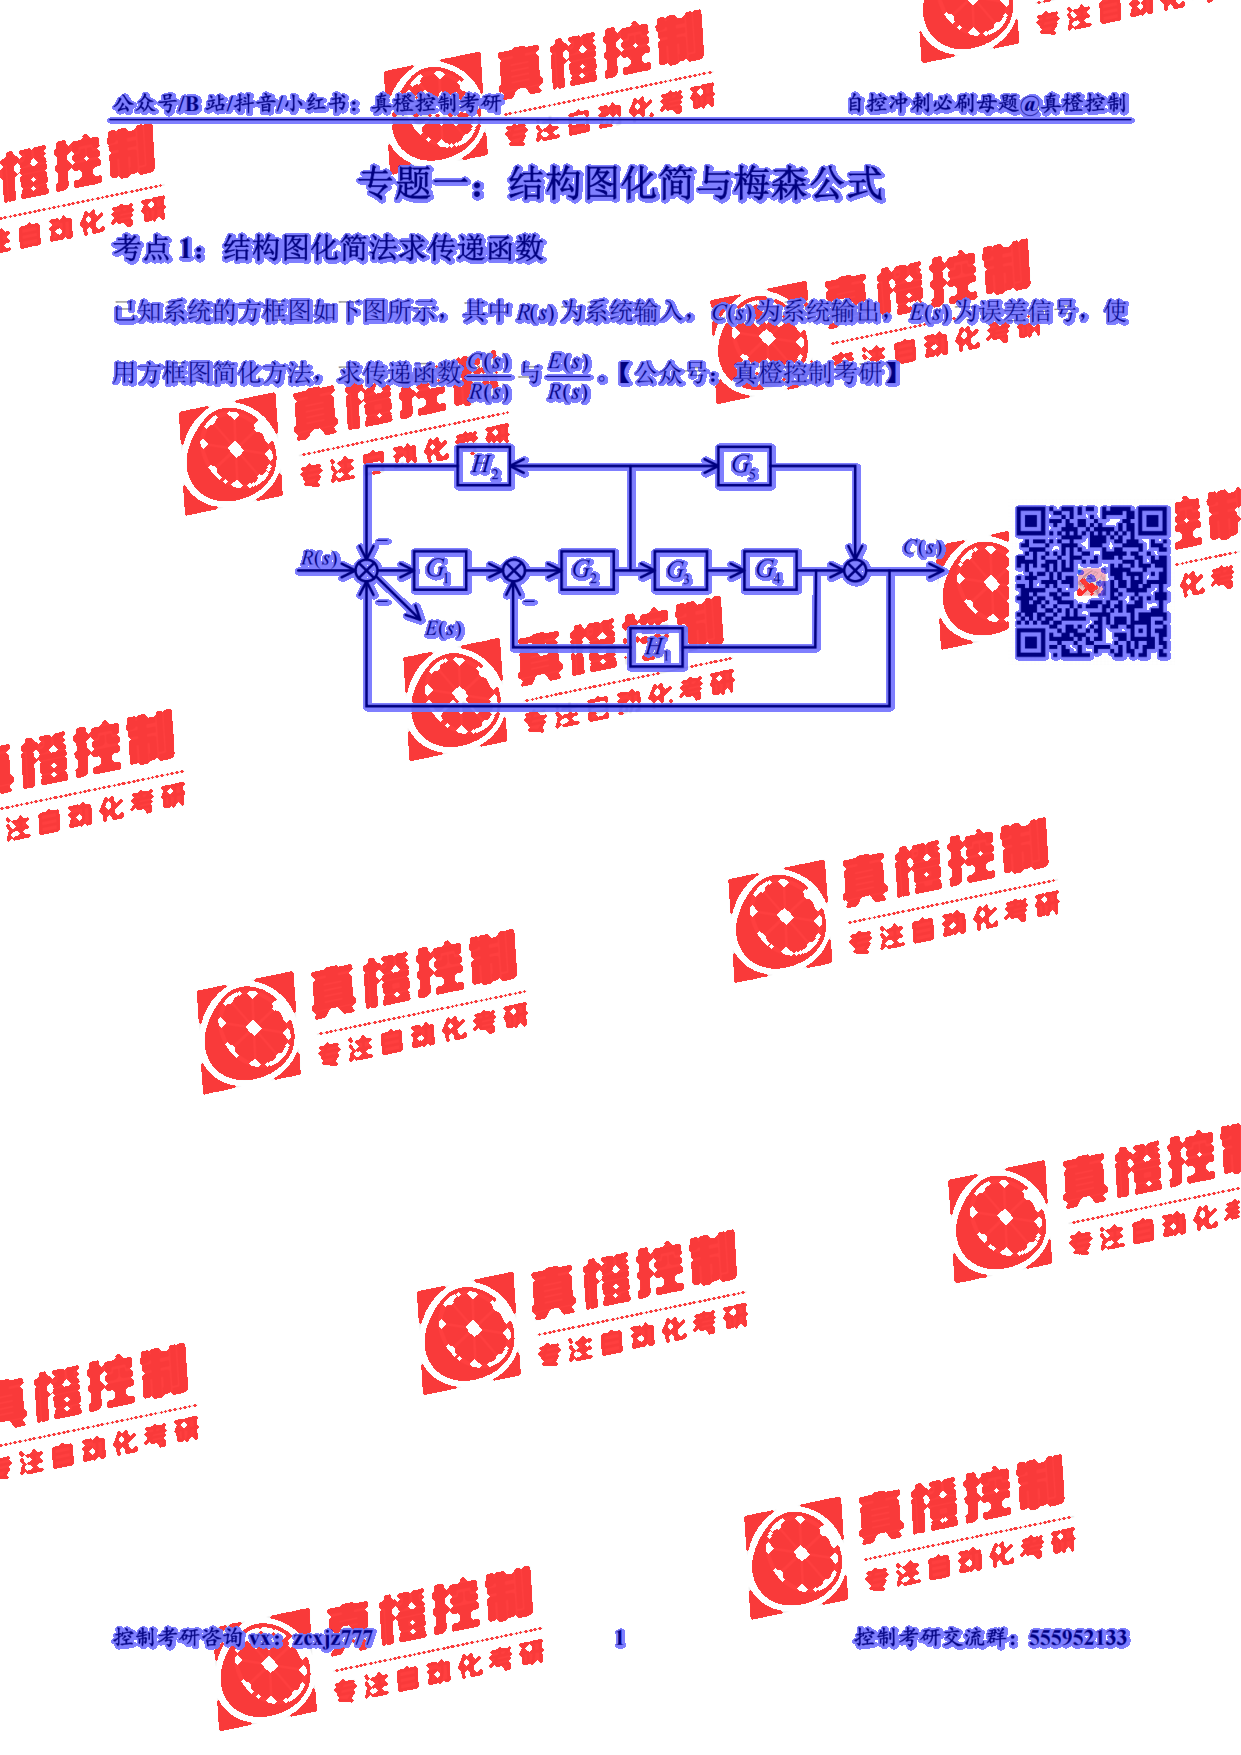
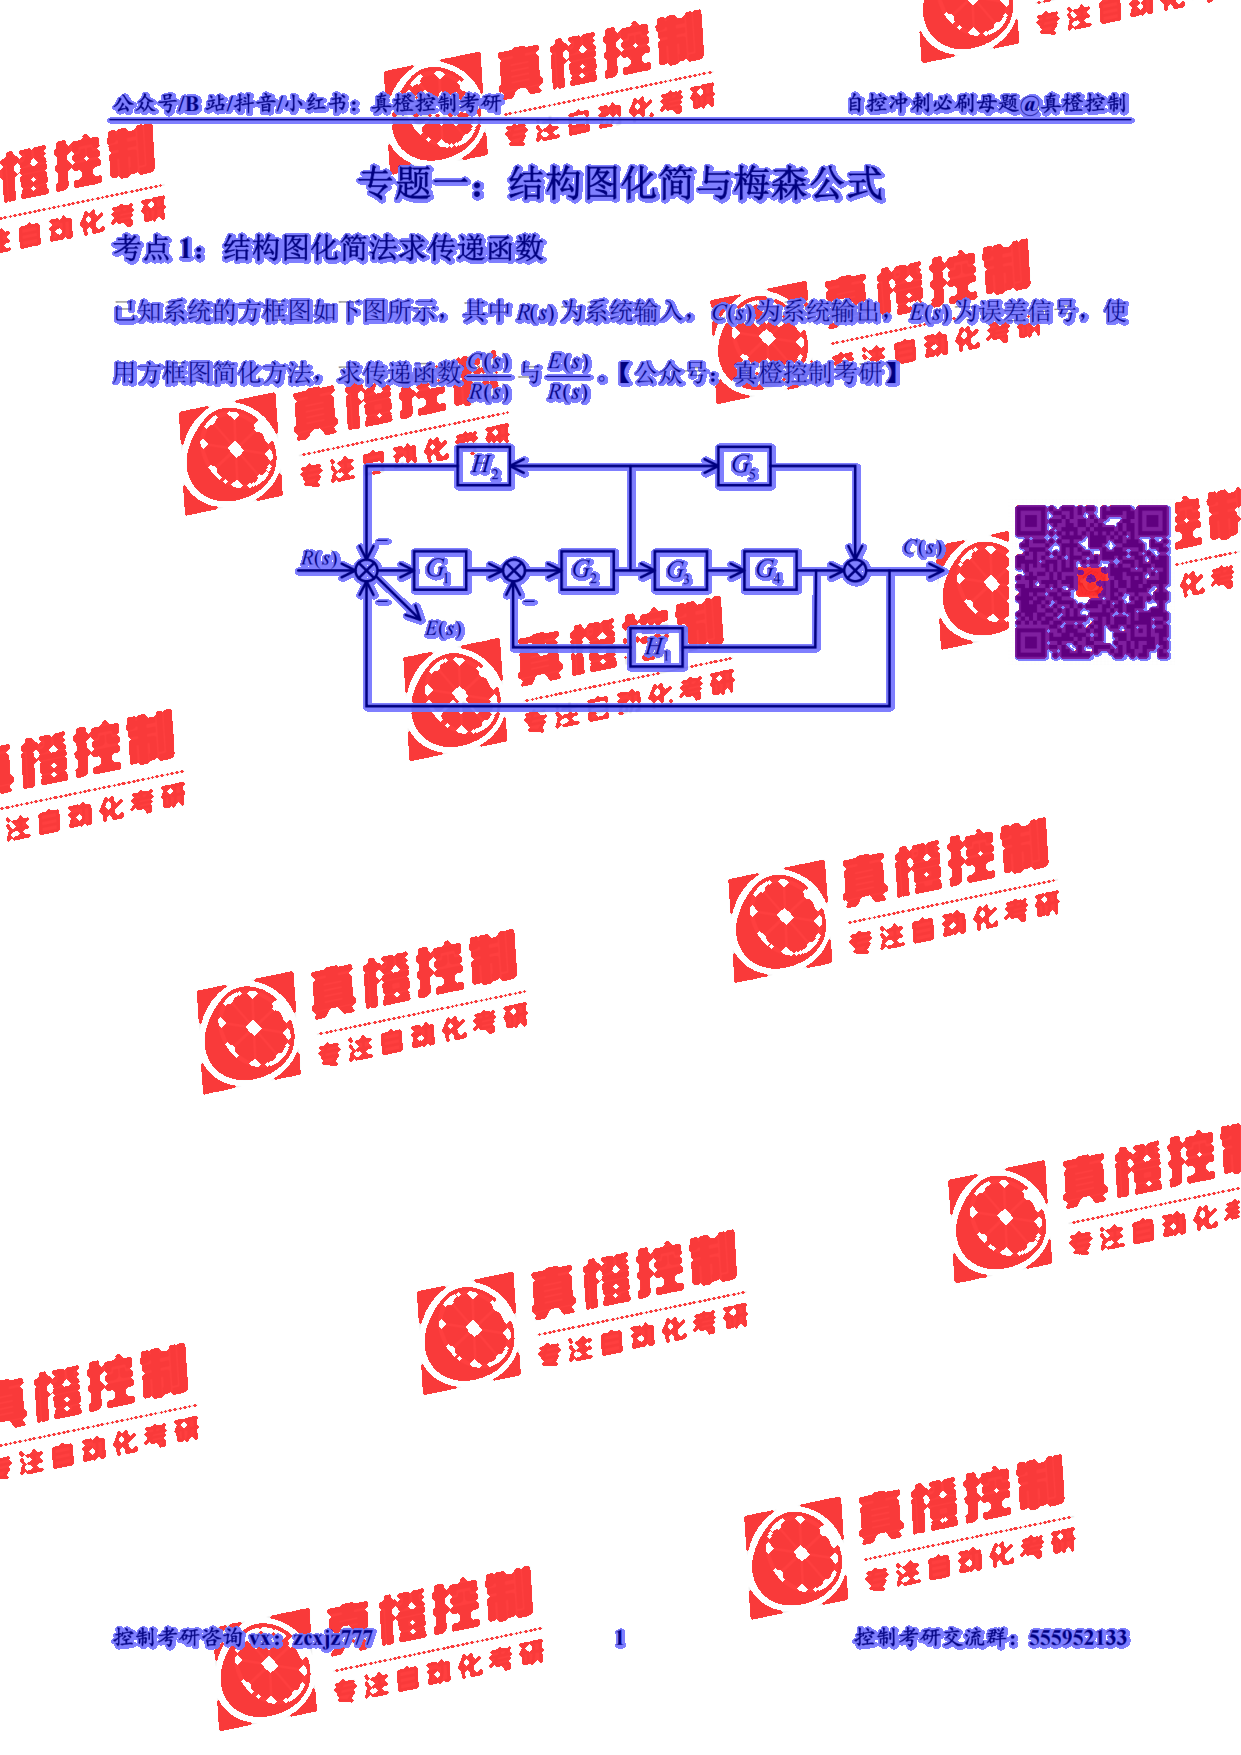
fix: update QR code removal logic to include website QR codes as watermarks

Changed region(s): [[0.7961, 0.2769, 0.9492, 0.4]]

diff --git a/tests/test_progress_enhancement.py b/tests/test_progress_enhancement.py
@@ -1,11 +1,9 @@
 #!/usr/bin/env python3
 """Test suite for enhanced progress bar tracking in watermark removal pipeline."""
 
+import importlib.util
 import time
 from unittest.mock import MagicMock, Mock, patch
-
-import numpy as np
-import pytest
 
 try:
     import cv2
@@ -13,15 +11,14 @@ try:
 except ImportError:
     CV2_AVAILABLE = False
 
-try:
-    from ultralytics import YOLO
-    YOLO_AVAILABLE = True
-except ImportError:
-    YOLO_AVAILABLE = False
+import numpy as np
+import pytest
 
 # Import the modules to test
 from pdf_watermark_removal.watermark_detector import WatermarkDetector
 from pdf_watermark_removal.watermark_remover import WatermarkRemover
+
+YOLO_AVAILABLE = importlib.util.find_spec("ultralytics") is not None
 
 
 class ProgressTracker:
@@ -119,7 +116,7 @@ class TestProgressTracking:
         mock_progress.update = Mock(side_effect=tracker.update_callback)
 
         # Perform detection with progress tracking
-        mask = detector.detect_watermark_mask(
+        detector.detect_watermark_mask(
             sample_image,
             page_num=1,
             progress=mock_progress,
@@ -138,8 +135,6 @@ class TestProgressTracking:
 
     def test_qr_detection_progress(self, sample_image_with_qr):
         """Test progress tracking when QR code detection is enabled."""
-        tracker = ProgressTracker()
-
         detector = WatermarkDetector(
             detection_method="traditional",
             detect_qr_codes=True,
@@ -147,11 +142,6 @@ class TestProgressTracking:
             remove_all_qr_codes=False,
             verbose=False
         )
-
-        # Mock progress updates
-        mock_progress = Mock()
-        mock_task_id = Mock()
-        mock_progress.update = Mock(side_effect=tracker.update_callback)
 
         # Perform detection with QR code scanning
         mask = detector.detect_qr_codes_mask(
@@ -178,7 +168,7 @@ class TestProgressTracking:
         mock_task_id = Mock()
         mock_progress.update = Mock(side_effect=tracker.update_callback)
 
-        mask = detector.detect_watermark_mask(
+        detector.detect_watermark_mask(
             sample_image,
             page_num=1,
             progress=mock_progress,
@@ -211,7 +201,7 @@ class TestProgressTracking:
         with patch.object(remover, '_process_single_pass') as mock_pass:
             mock_pass.return_value = (sample_image, True)
 
-            result = remover.remove_watermark_multi_pass(
+            remover.remove_watermark_multi_pass(
                 sample_image,
                 passes=3,
                 page_num=1,
@@ -239,7 +229,7 @@ class TestProgressTracking:
         mock_task_id = Mock()
         mock_progress.update = Mock(side_effect=tracker.update_callback)
 
-        mask = detector.detect_watermark_mask(
+        detector.detect_watermark_mask(
             clean_image,
             page_num=1,
             progress=mock_progress,
@@ -266,10 +256,10 @@ class TestProgressTracking:
 
         # Simulate an error during detection
         with patch.object(detector, '_traditional_detect_mask') as mock_detect:
-            mock_detect.side_effect = Exception("Detection failed")
+            mock_detect.side_effect = ValueError("Detection failed")
 
-            with pytest.raises(Exception):
-                mask = detector.detect_watermark_mask(
+            with pytest.raises(ValueError):
+                detector.detect_watermark_mask(
                     sample_image,
                     page_num=1,
                     progress=mock_progress,

diff --git a/src/pdf_watermark_removal/watermark_detector.py b/src/pdf_watermark_removal/watermark_detector.py
@@ -254,9 +254,10 @@ class WatermarkDetector:
                 if qr.category in self.qr_code_categories_to_remove
             ]
         else:
-            # Default: Remove advertisements and unknown codes
+            # Default: Remove advertisements, unknown codes, and website QR codes
+            # Website QR codes are commonly used as watermarks
             return [
-                qr for qr in qr_codes if qr.category in ["advertisement", "unknown"]
+                qr for qr in qr_codes if qr.category in ["advertisement", "unknown", "website"]
             ]
 
     def detect_qr_codes_mask(self, image_rgb, page_num=1):
